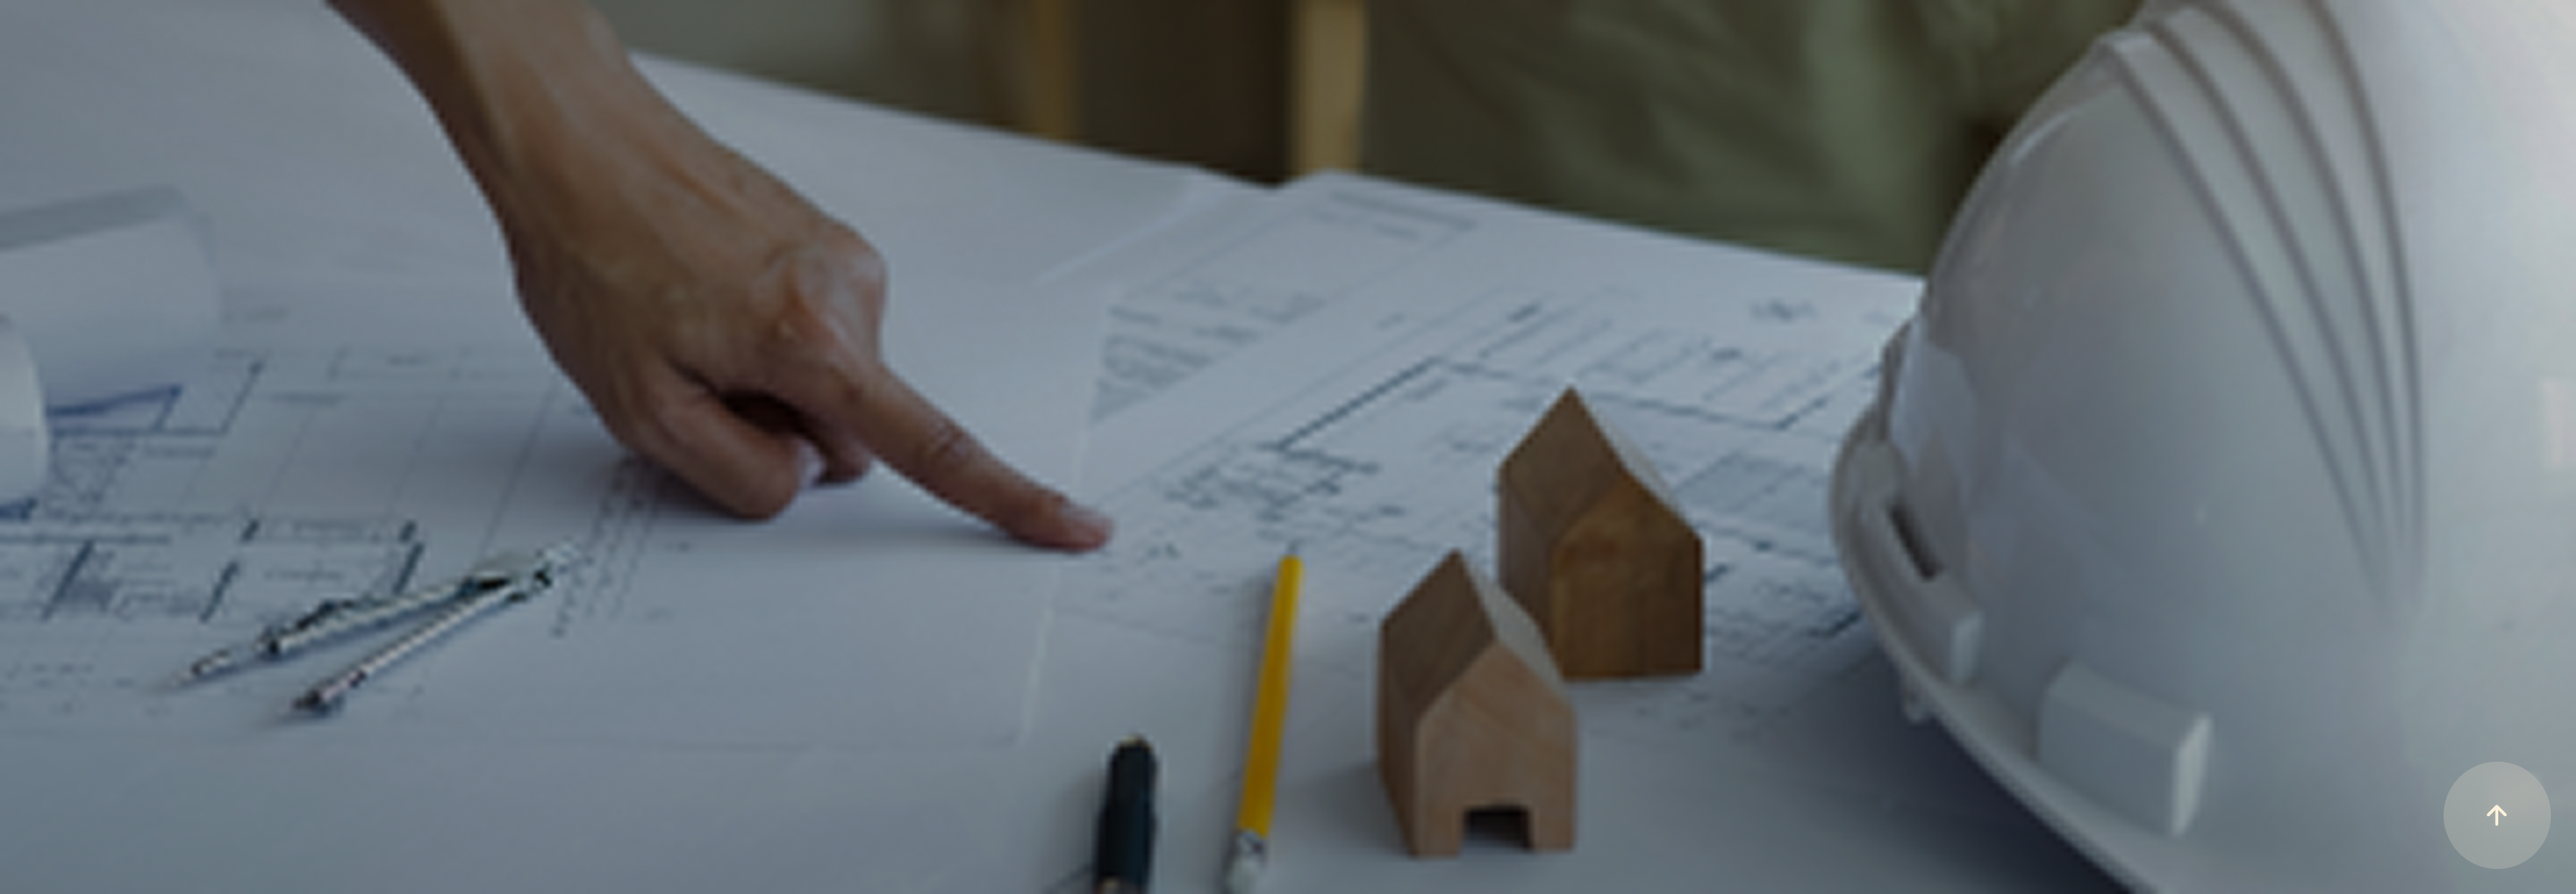
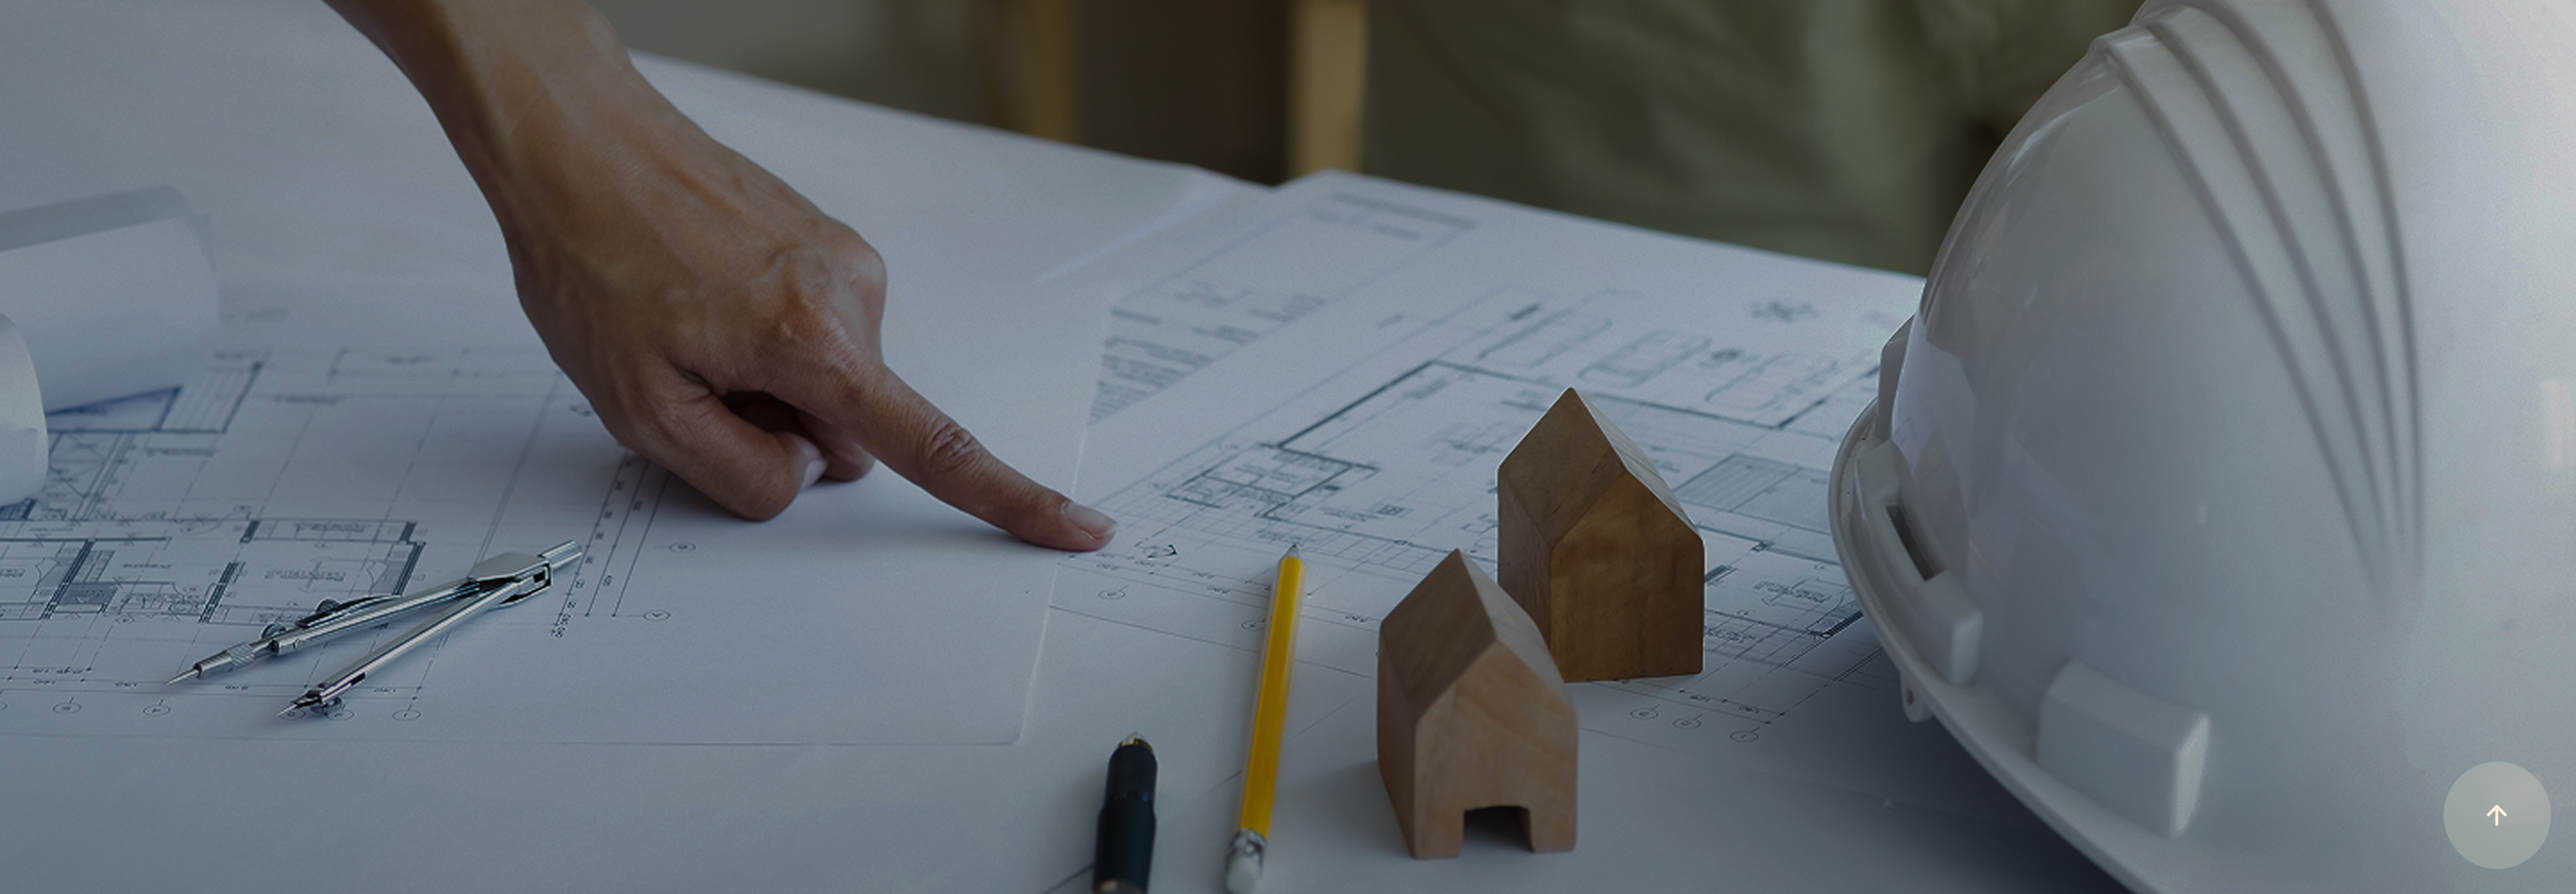
comment232

diff --git a/index.html b/index.html
@@ -1572,9 +1572,9 @@
 				duration: 1.5,
 				scrollTrigger: {
 					trigger: el,
-					start: 'top 100%',
-					end: 'top 60%',
-					scrub: true,
+					start: 'top 80%',
+					end: 'top 40%',
+					scrub: 1,
 				}
 			});
 		});
@@ -1779,9 +1779,9 @@
 				duration: 2.5,
 				scrollTrigger: {
 					trigger: el,
-					start: 'top 90%',
-					end: 'top 60%',
-					scrub: true,
+					start: 'top 80%',
+					end: 'top 40%',
+					scrub: 1,
 				}
 			});
 		});
@@ -1986,9 +1986,9 @@
 				duration: 2.5,
 				scrollTrigger: {
 					trigger: el,
-					start: 'top 90%',
-					end: 'top 60%',
-					scrub: true,
+					start: 'top 80%',
+					end: 'top 40%',
+					scrub: 1,
 				}
 			});
 		});
@@ -2032,8 +2032,8 @@
 							scrollTrigger: {
 								trigger: el,
 								start: 'top 80%',
-								end: 'top 60%',
-								scrub: true,
+								end: 'top 40%',
+								scrub: 1,
 							}
 						});
 
@@ -2124,8 +2124,8 @@
 							scrollTrigger: {
 								trigger: el,
 								start: 'top 80%',
-								end: 'top 60%',
-								scrub: true,
+								end: 'top 40%',
+								scrub: 1,
 							}
 						});
 
@@ -2164,7 +2164,7 @@
 								trigger: el,
 								start: 'top 100%',
 								end: 'top 60%',
-								scrub: true,
+								scrub: 1,
 							}
 						});
 
